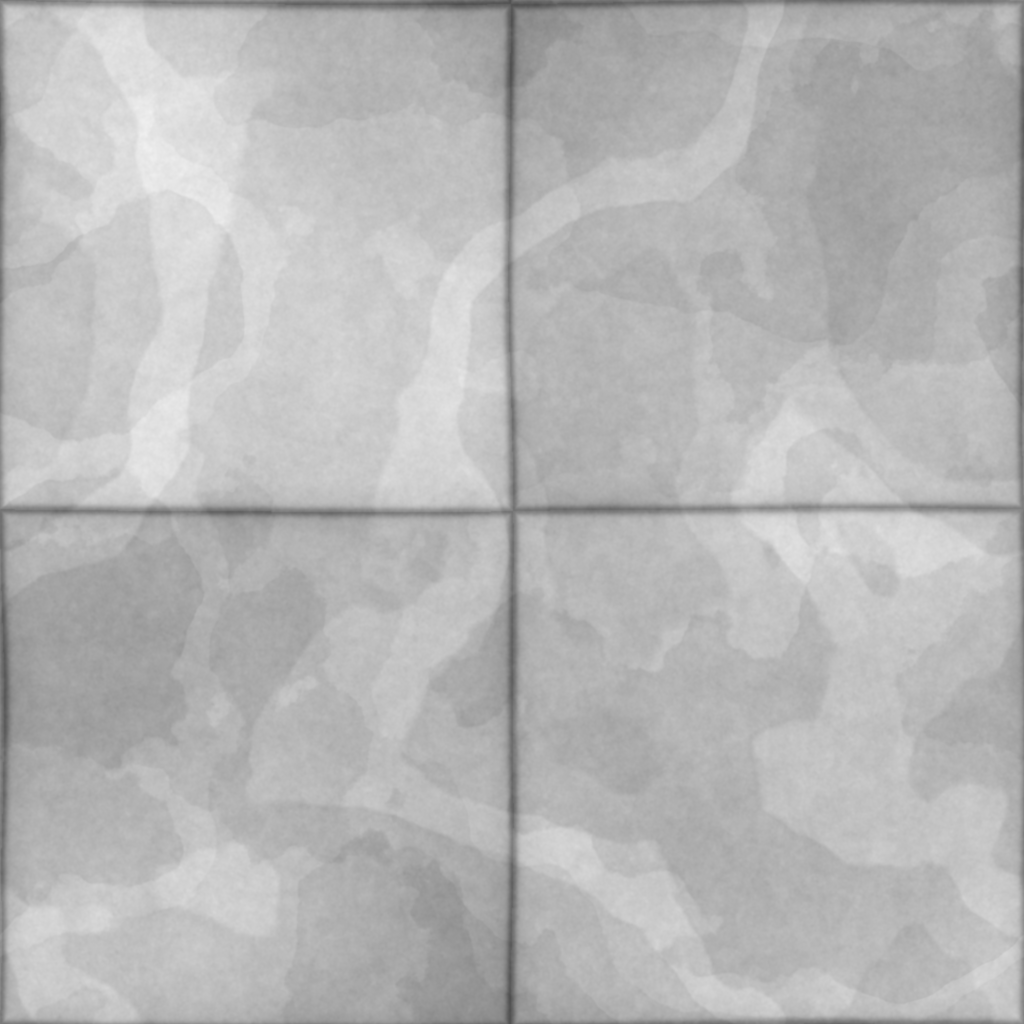
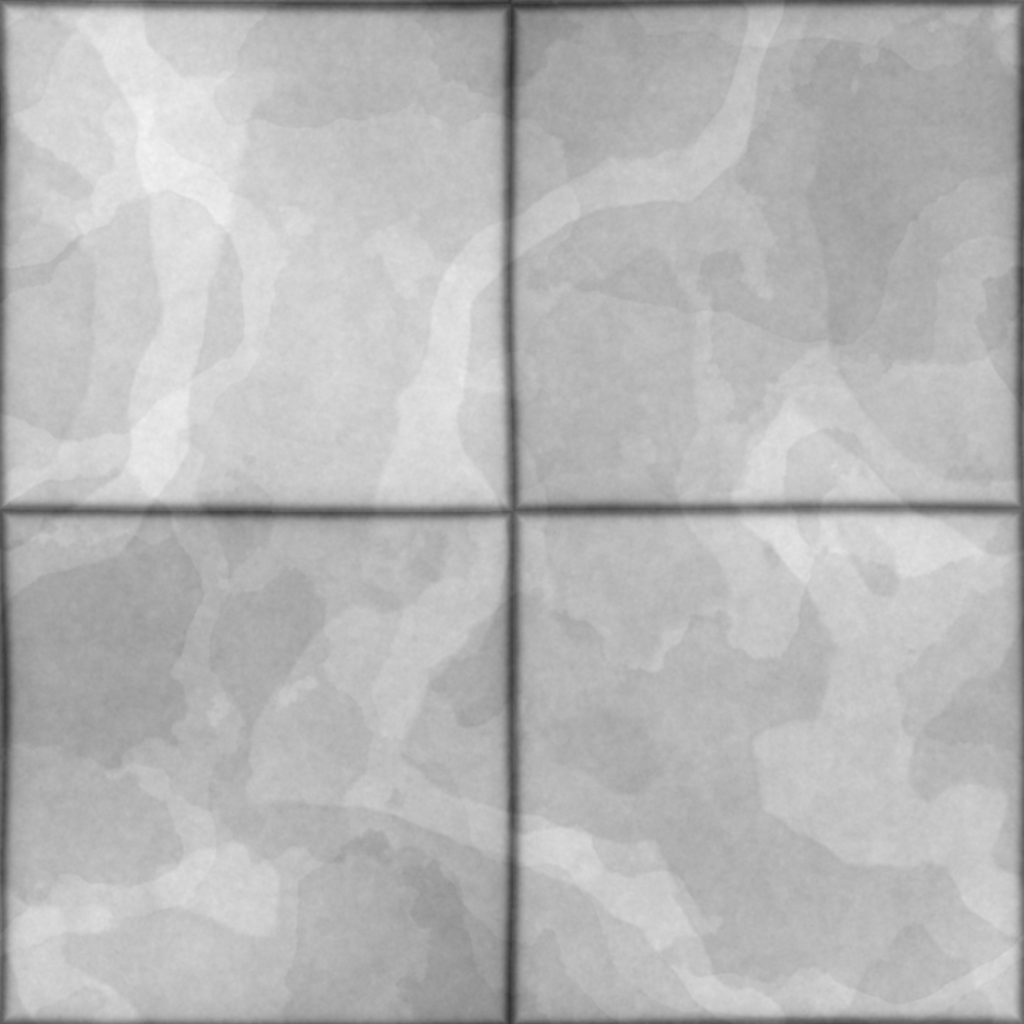
Brighter rooms: a painted night is blue, not black
The user: "the locations look dark". Ambient fill 0.38 -> 0.78 (pantry and
basement x1.3 on top: dark walls, dark floor), the bounce light 0.22 -> 0.34,
the ceiling glows at 1.0 instead of 0.55, the paper pass lifts the darks more
and vignettes less. The rats' coat is a shade darker so it stays grey in the
brighter rooms; tail, ears and paws are a clear pink; calmer fur strokes;
wider joints in the painted tiles.

Claude-Session: https://claude.ai/code/session_01LGEfjFxgRKjjvXcK5grQ7w

Changed region(s): [[0.0, 0.0, 1.0, 1.0]]

diff --git a/tools/paint_textures.py b/tools/paint_textures.py
@@ -166,14 +166,14 @@ def paint_patterns():
     u = ((xx + wobx) / (N / 2.0)) % 1.0
     w = ((yy + woby) / (N / 2.0)) % 1.0
     d = np.minimum(np.minimum(u, 1 - u), np.minimum(w, 1 - w)) * (N / 2.0)   # px to the nearest joint
-    joint = np.exp(-(d / 5.0) ** 2)
+    joint = np.exp(-(d / 7.0) ** 2)
     pool = np.exp(-(d / 22.0) ** 2)
     shade = np.zeros((N, N))
     tones = np.array([[0.05, -0.04], [-0.05, 0.03]])
     ix = (((xx + wobx) // (N / 2.0)) % 2).astype(int)
     iy = (((yy + woby) // (N / 2.0)) % 2).astype(int)
     shade = tones[iy, ix]
-    v = wash(194, blotch=1.5, pools=1.0) + shade - 0.34 * joint - 0.07 * pool
+    v = wash(194, blotch=1.5, pools=1.0) + shade - 0.5 * joint - 0.08 * pool
     save_grey("ceramic_tile", blur(v, 0.6))
 
 
